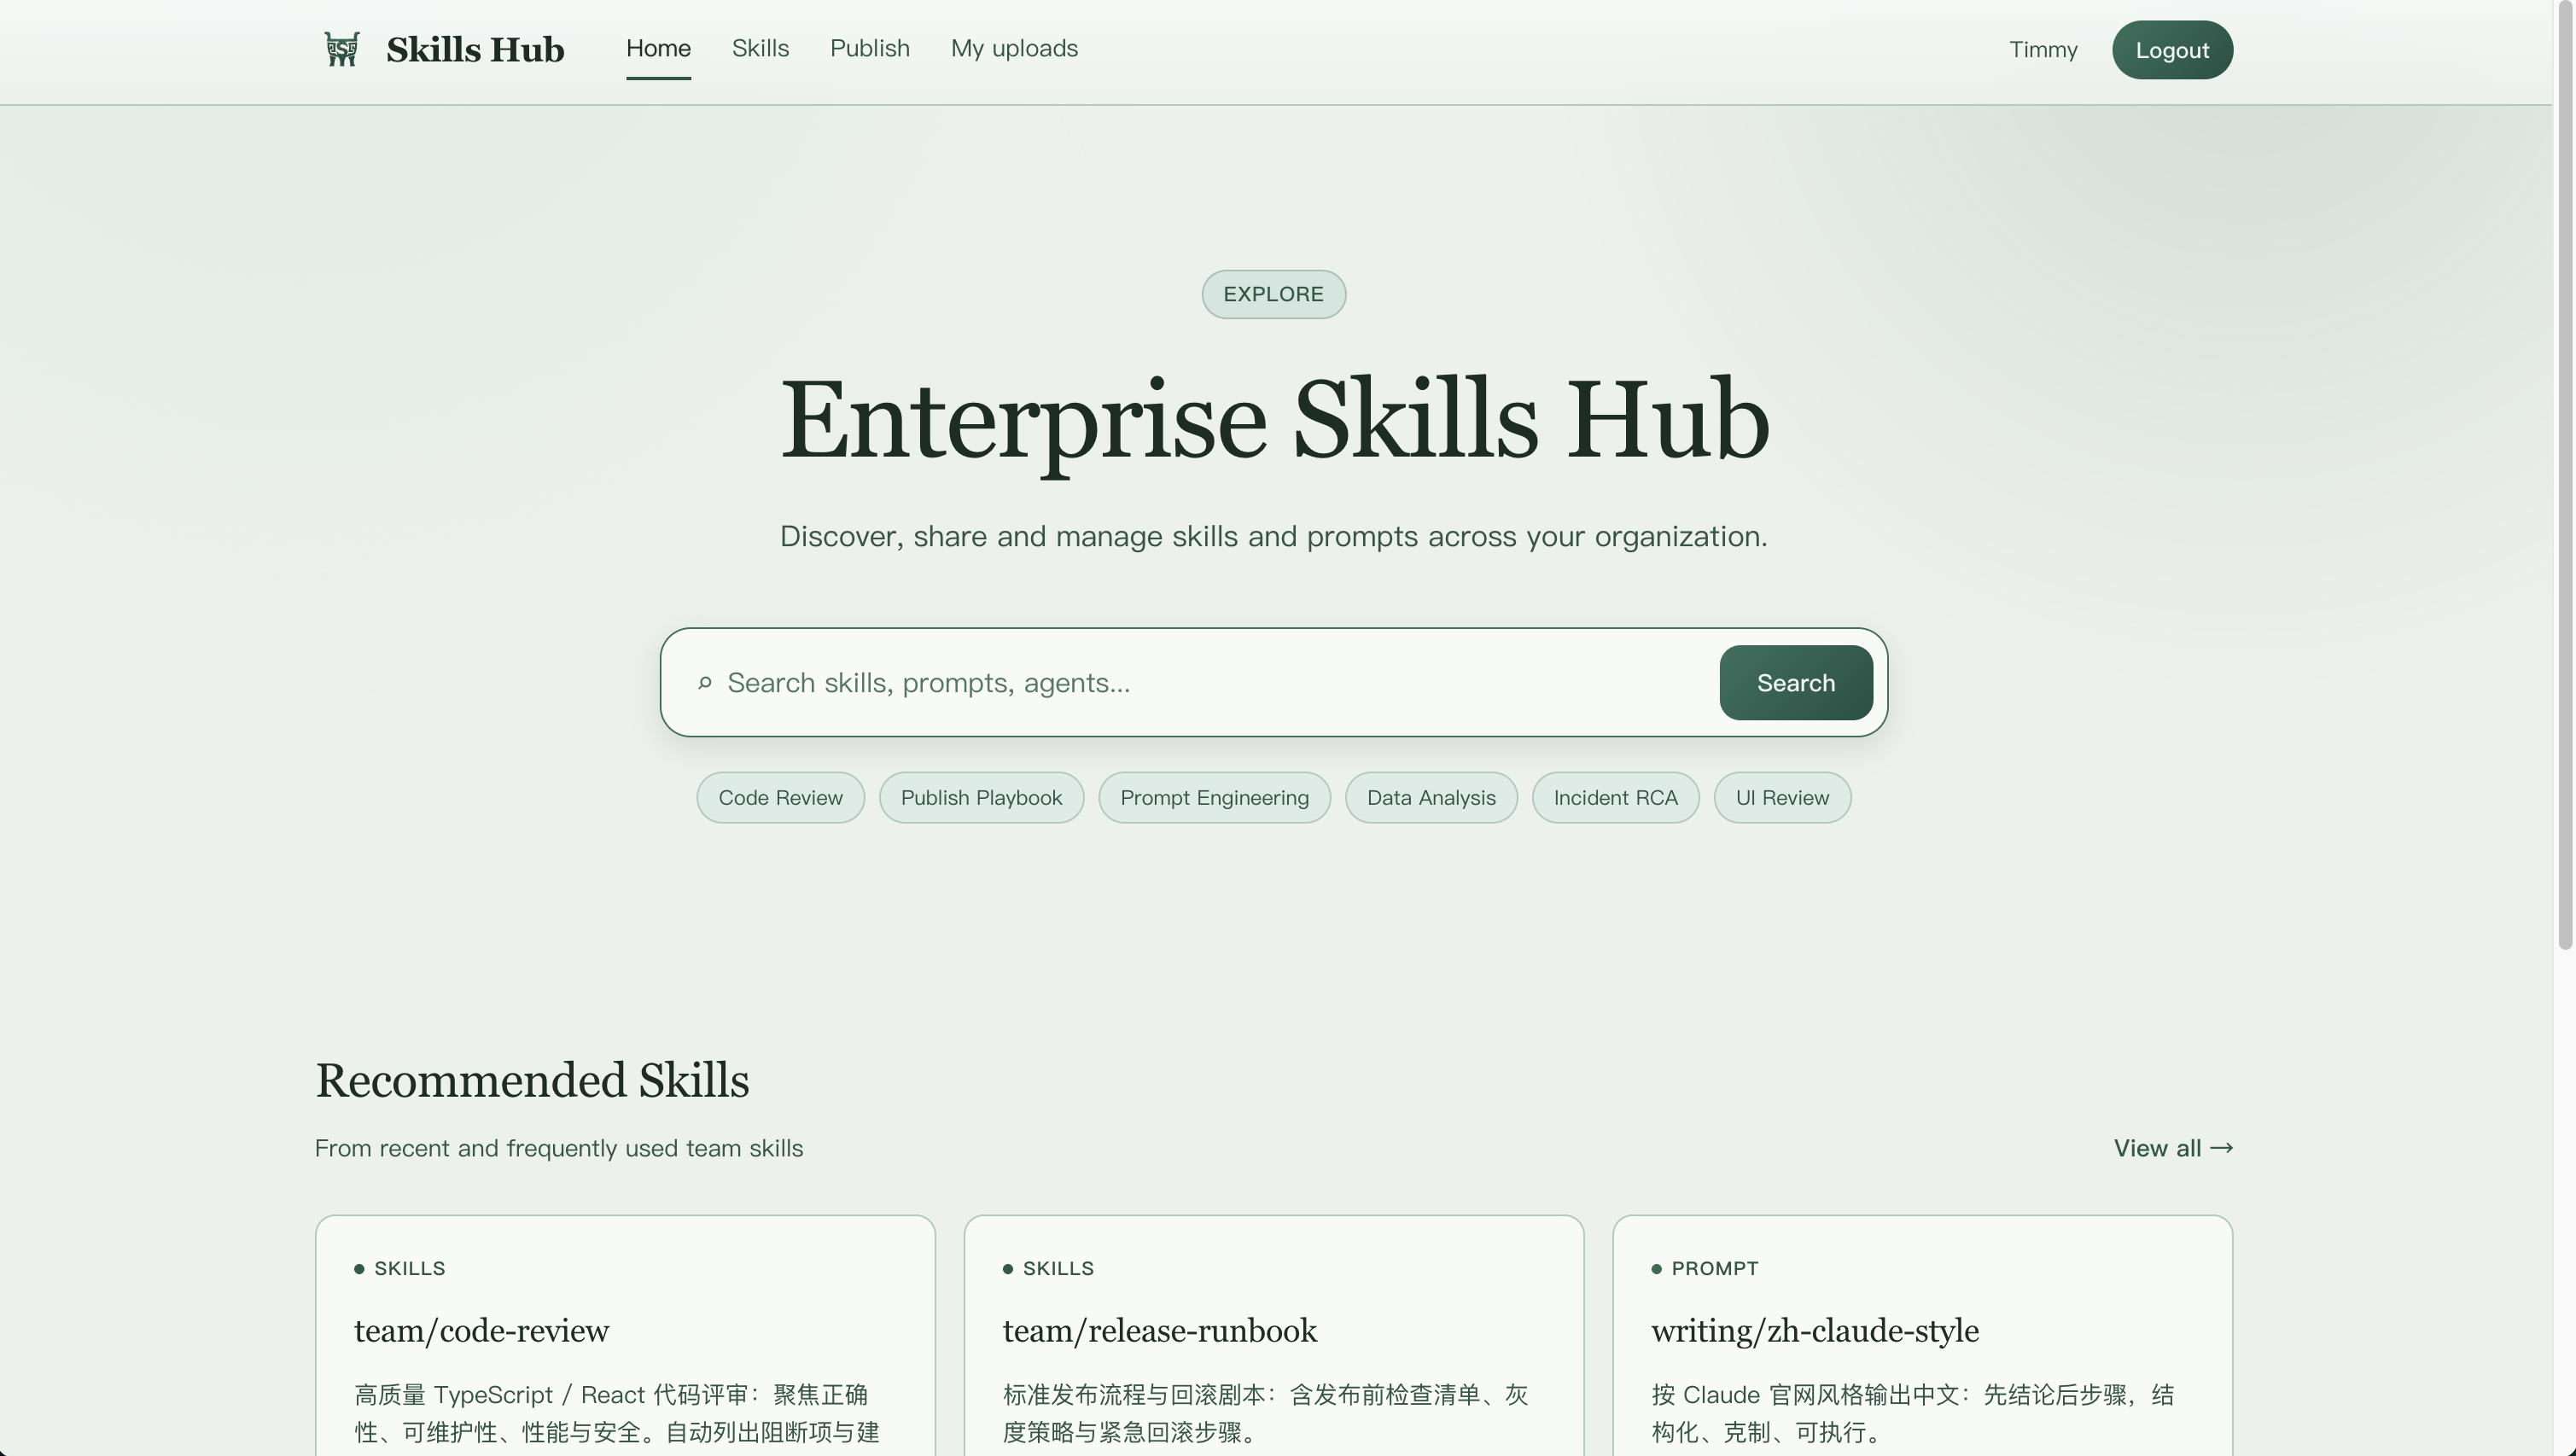
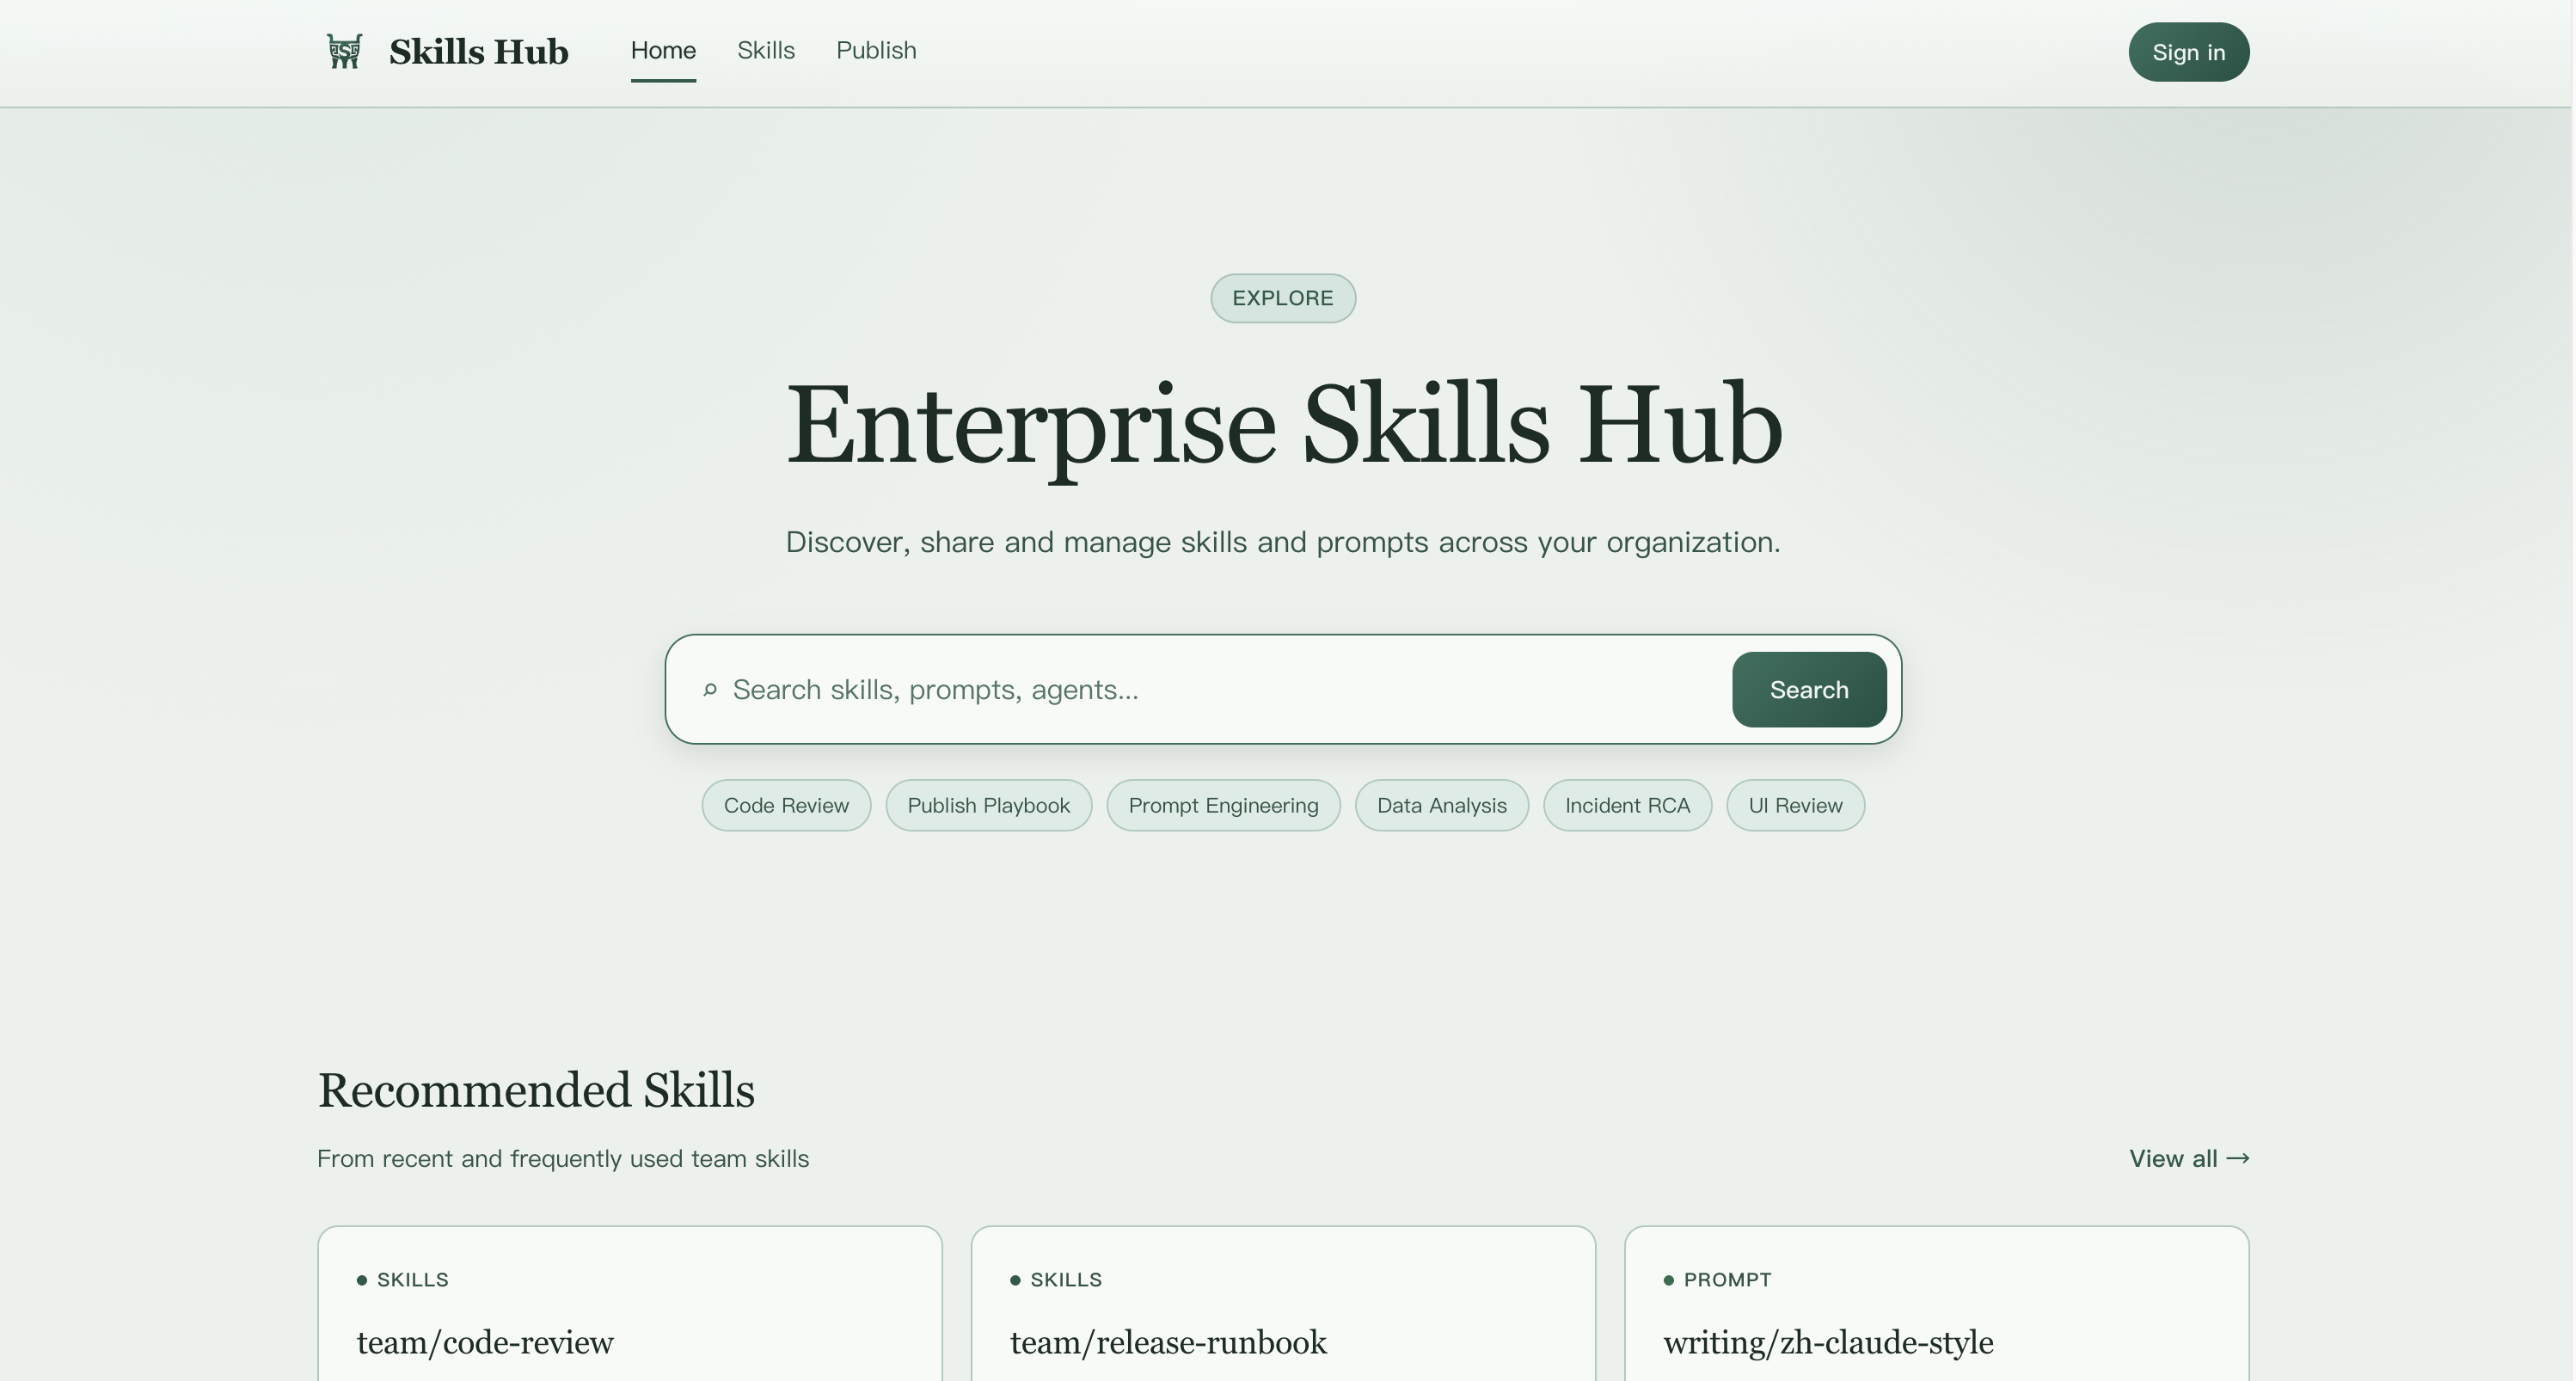
[feat](all): update version

diff --git a/apps/cli/README.md b/apps/cli/README.md
@@ -1,0 +1,135 @@
+# @taoai/skill-cli
+
+<p align="center">
+  <img src="../web/public/ding-logo.svg" alt="Skills Hub" width="96" height="96" />
+</p>
+
+CLI for Skills Hub artifact operations: publish, list, install, sync, login, and local server control.
+
+## Features
+
+- Publish artifacts from source directory or legacy manifest+payload
+- Install artifacts by full id or by name+kind
+- List local artifacts with filters
+- Sync skills from remote registry for the current user
+- Login to registry and persist token
+- Start/stop/restart local server
+
+## Requirements
+
+- Node.js 18+
+- pnpm 9+
+
+## Install
+
+From monorepo root:
+
+```bash
+pnpm --filter @taoai/skill-cli build
+pnpm --filter @taoai/skill-cli publish --access public
+```
+
+After publishing:
+
+```bash
+npm i -g @taoai/skill-cli
+skill --help
+```
+
+## Local Development
+
+Run from this package directory:
+
+```bash
+pnpm install
+pnpm build
+node dist/index.js --help
+```
+
+Watch mode:
+
+```bash
+pnpm dev
+```
+
+## Commands
+
+```bash
+skill --help
+```
+
+### login
+
+```bash
+skill login
+```
+
+Prompts for username/password, calls `POST /api/auth/login`, and saves token to local config.
+
+### list
+
+```bash
+skill list --limit 50
+skill list --kind skills --query review
+```
+
+### publish
+
+Publish from source directory (recommended):
+
+```bash
+skill publish --source ./my-skill
+skill publish --source ./my-skill --version 1.2.0
+```
+
+Legacy mode:
+
+```bash
+skill publish --manifest ./manifest.json --payload ./artifact.tgz
+```
+
+### install
+
+Install by full artifact id:
+
+```bash
+skill install skills:team/code-review@1.0.0
+```
+
+Install by name (default kind is `skills`):
+
+```bash
+skill install team/code-review --kind skills
+```
+
+### sync
+
+```bash
+skill sync
+skill sync --username alice
+skill sync --output ./downloads
+```
+
+### server
+
+```bash
+skill server start
+skill server stop
+skill server restart
+```
+
+## Artifact Kinds
+
+Supported kinds:
+
+- `skills`
+- `prompt`
+- `agent`
+
+## Notes
+
+> [!NOTE]
+> This package is scoped and configured for public npm publishing (`publishConfig.access=public`).
+
+> [!WARNING]
+> Do not run `npm publish` from monorepo root if you only want to release CLI. Publish this package specifically.